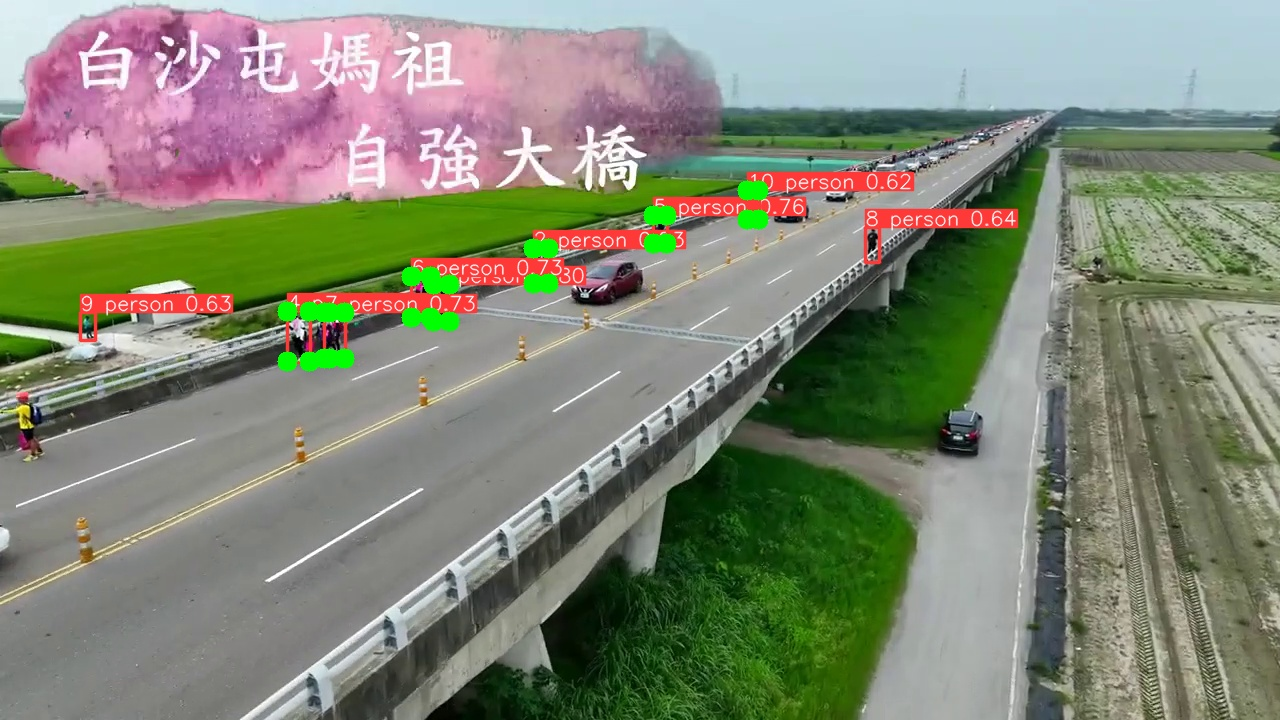
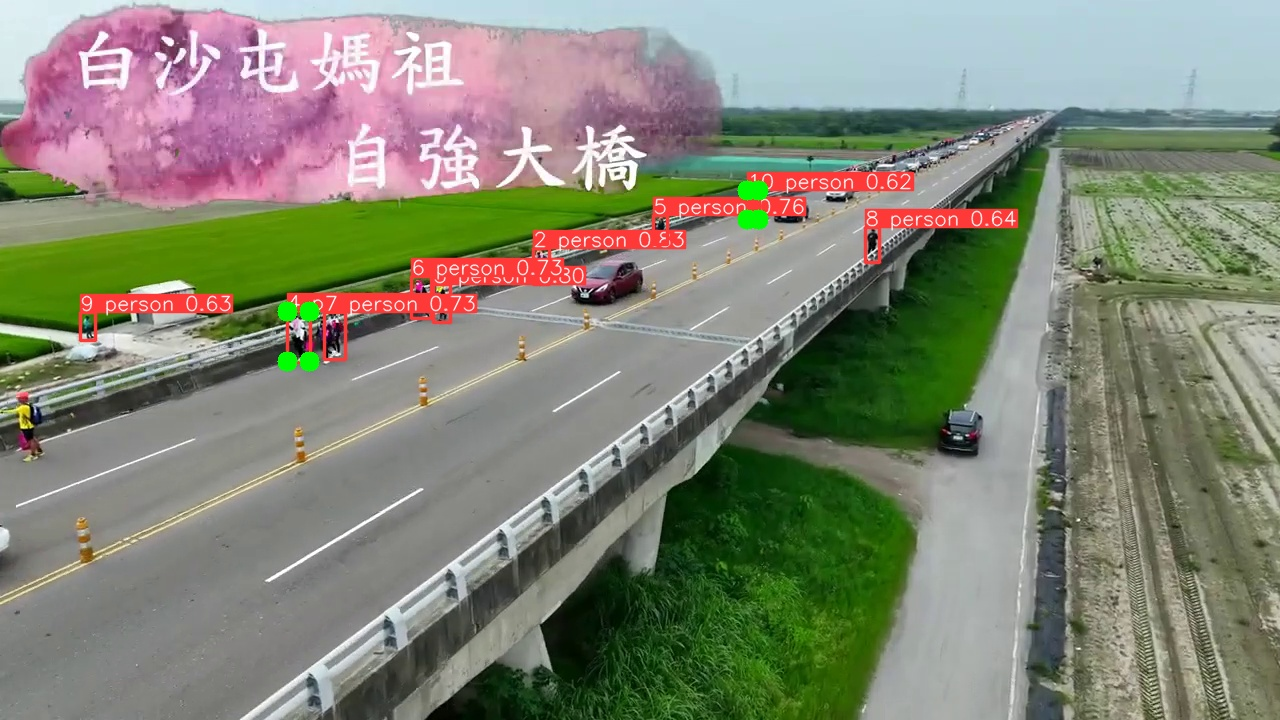
optflow輪廓法recover

diff --git a/geo_fence.py b/geo_fence.py
@@ -1,0 +1,55 @@
+import cv2
+import copy
+
+dots = []
+
+# class polygon :
+#     def __init__(self, dots):
+#         self.dots = []  # 點屬性
+        
+#     def dots_data(self) :
+#         for i in len(self.dots) :
+#             print(self.dots[i])
+
+polygon_list = []
+origin_img = 0
+
+def geofence(origin_img):
+    # img = cv2.imread('C:\\Users\\Guan Yu Chen\\Desktop\\project\\0.jpg')
+    # img_size = (img.shape[1]//2,img.shape[0]//2)
+
+    # print(img_size)
+
+    # origin_img = cv2.resize(img, img_size, interpolation=cv2.INTER_AREA)
+    new_img = copy.deepcopy(origin_img)
+
+    cv2.imshow('roi', new_img)
+    cv2.setMouseCallback('roi', show_xy)  # 設定偵測事件的函式與視窗
+
+    cv2.waitKey(0)     # 按下任意鍵停止
+    cv2.destroyAllWindows()
+
+
+
+def show_xy(event,x,y,flags,userdata):
+    global new_img
+    global origin_img
+    #print(event,x,y,flags)
+    if event == 1 :                                  # 點擊左鍵
+        dots.append([x, y])                          # 記錄座標
+        print("start: ",event,x,y,flags)
+    elif event == 4 :                                # 放開左鍵
+        dots.append([x, y])
+        print("end: ",event,x,y,flags)
+        cv2.rectangle(new_img, (dots[0][0],dots[0][1]), (dots[1][0],dots[1][1]), (255,255,255), 1)
+        dots.clear()
+        cv2.imshow('roi', new_img)
+    elif event == 5 :                                # 點擊右鍵
+        new_img = copy.deepcopy(origin_img)
+        cv2.imshow('roi', new_img)
+        
+    if flags == 1 :                                  # 左鍵拖移
+        copy_img = copy.deepcopy(new_img)
+        cv2.rectangle(copy_img, (dots[0][0],dots[0][1]), (x,y), (255,255,255), 1)
+        cv2.imshow('roi', copy_img)
+

diff --git a/optflow.py b/optflow.py
@@ -71,7 +71,9 @@ class Optflow:
             # 相對位置->絕對位置
             for feature in crowd_outer_features:
                 feature += [crowd_box[0], crowd_box[1]]
+                print("feature: ", feature)
                 img = cv2.circle(img, (feature[0], feature[1]), 10, [0,255,0], -1)
+                cv2.imwrite('crowds_all_features.jpg', img)
             
             crowds_outer_features_dict[crowd.id] = crowd_outer_features
 
@@ -88,15 +90,18 @@ class Optflow:
         masked_img = np.array(masked_img,np.uint8)
         contours, hierarchy = cv2.findContours(masked_img, cv2.RETR_TREE, cv2.CHAIN_APPROX_SIMPLE)
         draw_img0 = cv2.drawContours(masked_img.copy(), contours, -1,(0,0,255),3)
-        print('contours: ',contours)
-        contours = np.array(list(contours), dtype = object)
-        print('contours shape: ',contours.shape)
         show('contours', draw_img0, showout = True)
-        contours_shape = contours.shape
-        print(contours_shape)
-        contours = contours.reshape(contours_shape[0]*contours_shape[1], 2)
-        print('contours: ',contours.shape)
-        return contours
+        
+        contours = np.array(list(contours), dtype = object)
+        
+        res = np.empty(shape= (1,2), dtype=np.int64)
+        for c in contours:
+            c = c.reshape(c.shape[0]*c.shape[1], 2)
+            res = np.concatenate((res, c))
+        res = res[1:]
+        print("res: ", res)
+        time.sleep(3)
+        return res
 
 
     # function of Using optical flow calculatoin and get usable features' movment.

diff --git a/app.py b/app.py
@@ -13,7 +13,6 @@ import subprocess as sp
 import ctypes
 import inspect
 import globals
-from io import BytesIO
 
 app = Flask(__name__)
 source = ""
@@ -21,15 +20,6 @@ t = threading.Thread(target = track.start_stream, args = (source,))
 #t = multiprocessing.Process(target = track.start_stream, args = (source,))
 terminate_t = True
 #camera = cv2.VideoCapture(0)
-def resize_img_2_bytes(image, resize_factor, quality):
-    bytes_io = BytesIO()
-    img = Image.fromarray(image)
-
-    w, h = img.size
-    img.thumbnail((int(w * resize_factor), int(h * resize_factor)))
-    img.save(bytes_io, 'jpeg', quality=quality)
-    
-    return bytes_io.getvalue()
 
 def legal_url(url):
     try:

diff --git a/crowd.py b/crowd.py
@@ -1,13 +1,10 @@
 from pptracking_util import dist, Arrow
 import numpy as np
 class Crowd:
-    def __init__(self, people, id = None):
-        self.id = id
+    def __init__(self, people,):
         self.people = tuple(people)
-        self.delta_x = 0.0
-        self.delta_y = 0.0
     def __repr__(self):
-        return '\n---Crowd---\nid, {}, 人數:{}, people:{}'.format(self.id, len(self.people),[pdata.id for pdata in self.people])
+        return '\n---Crowd---\n人數:{}, ids:{}'.format(len(self.people),[pdata.id for pdata in self.people])
     def __hash__(self):
         return hash(self.__repr__())
     def __eq__(self, other):
